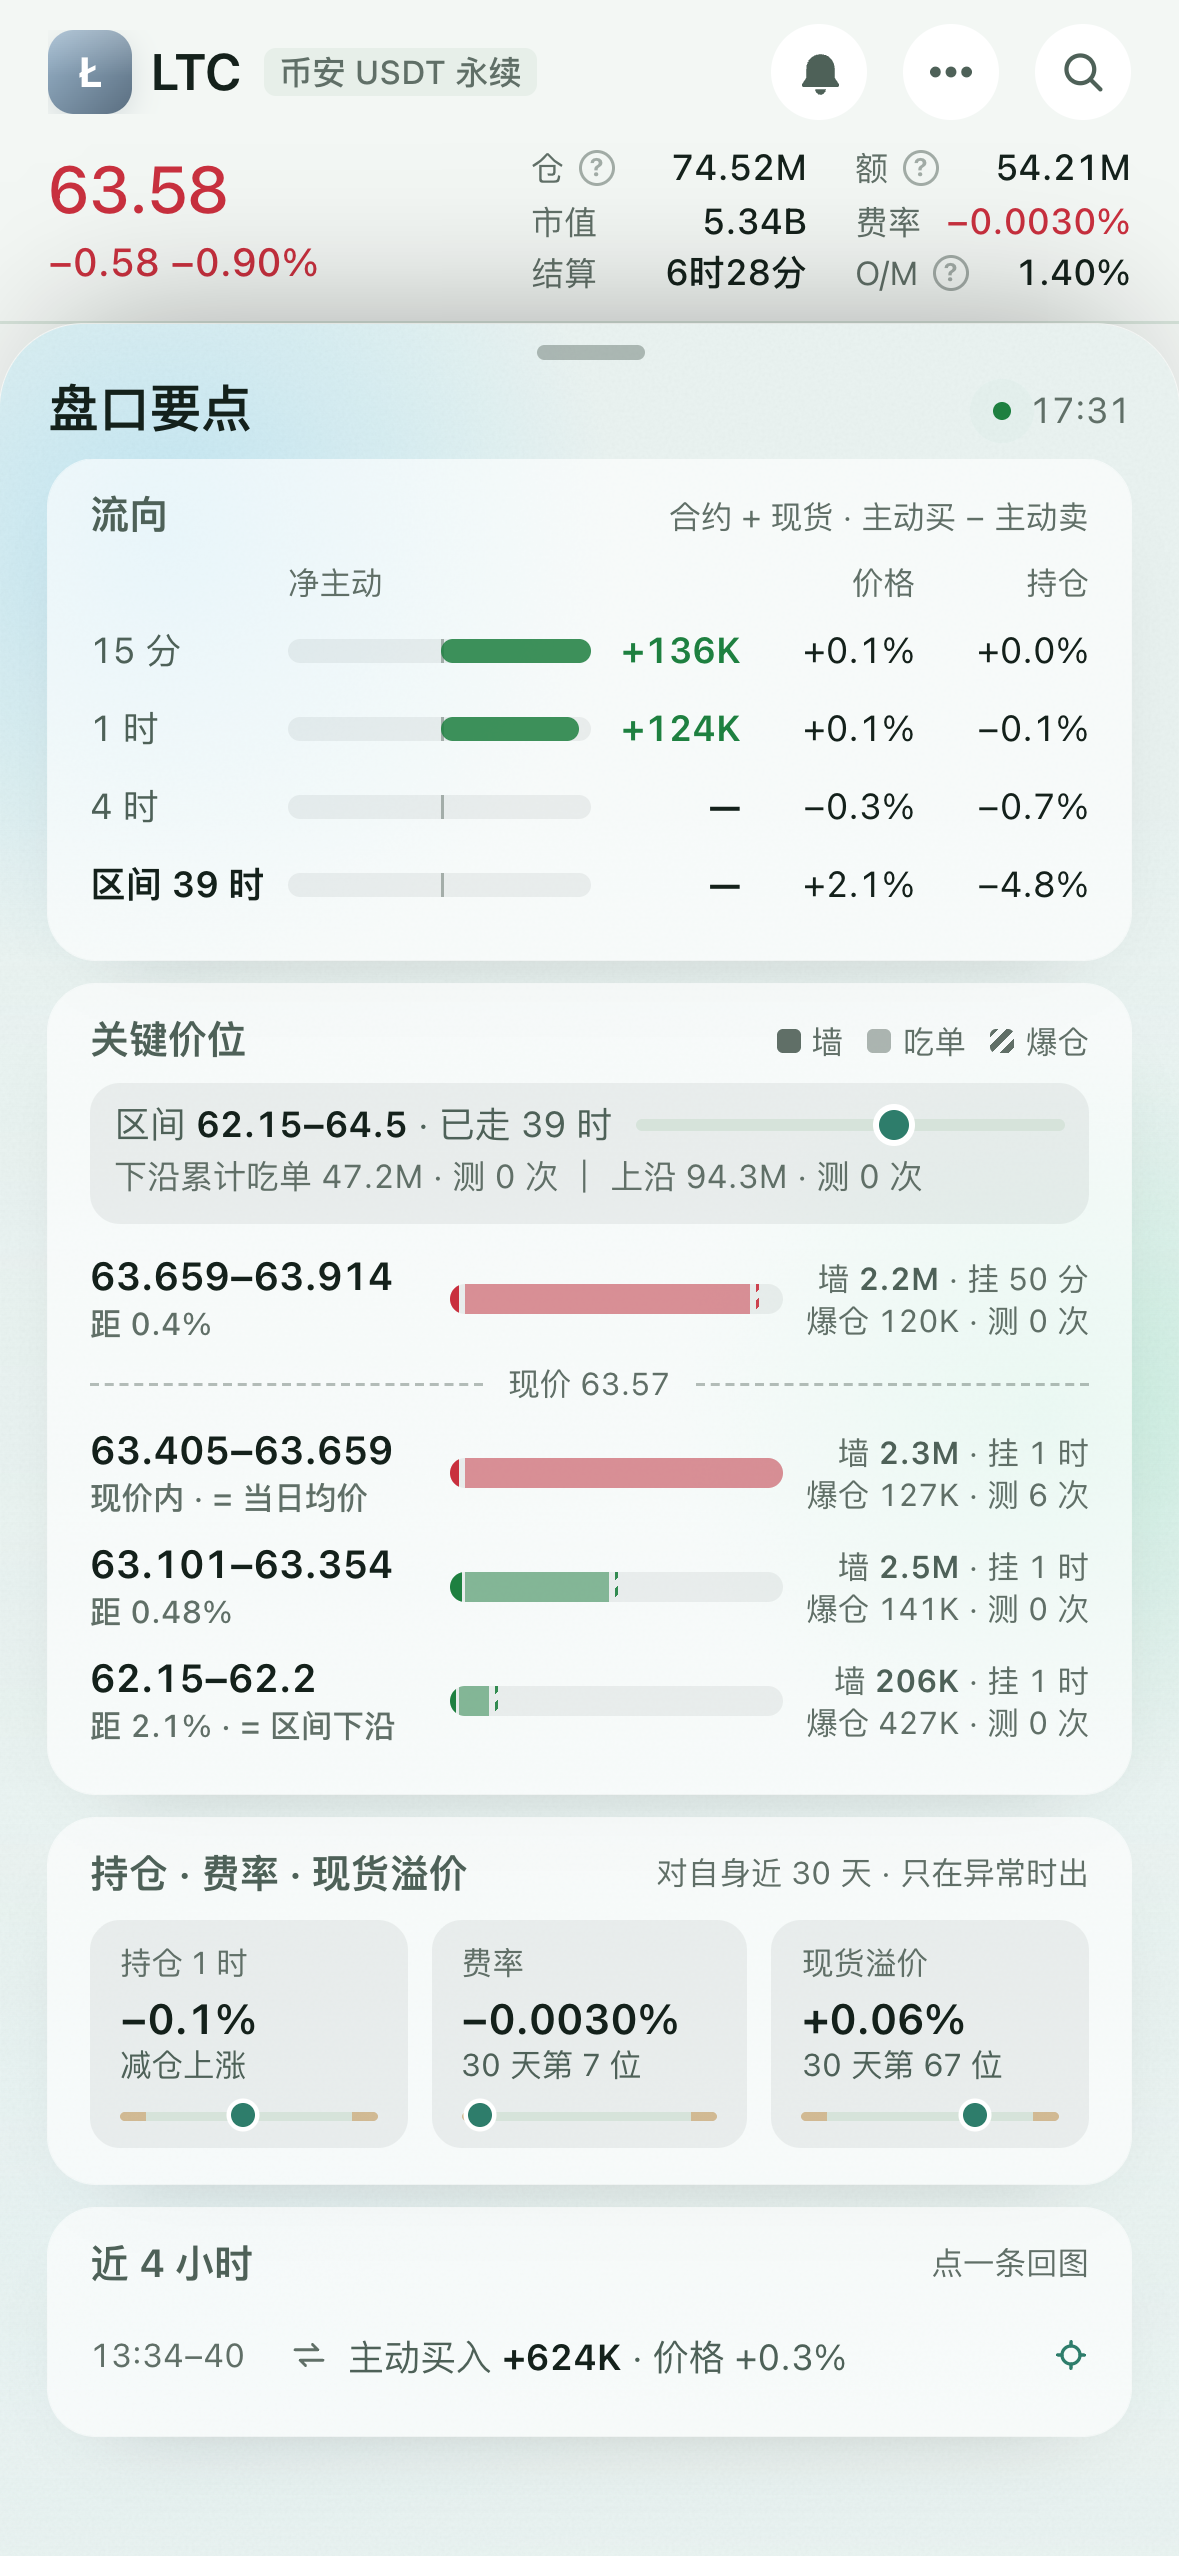
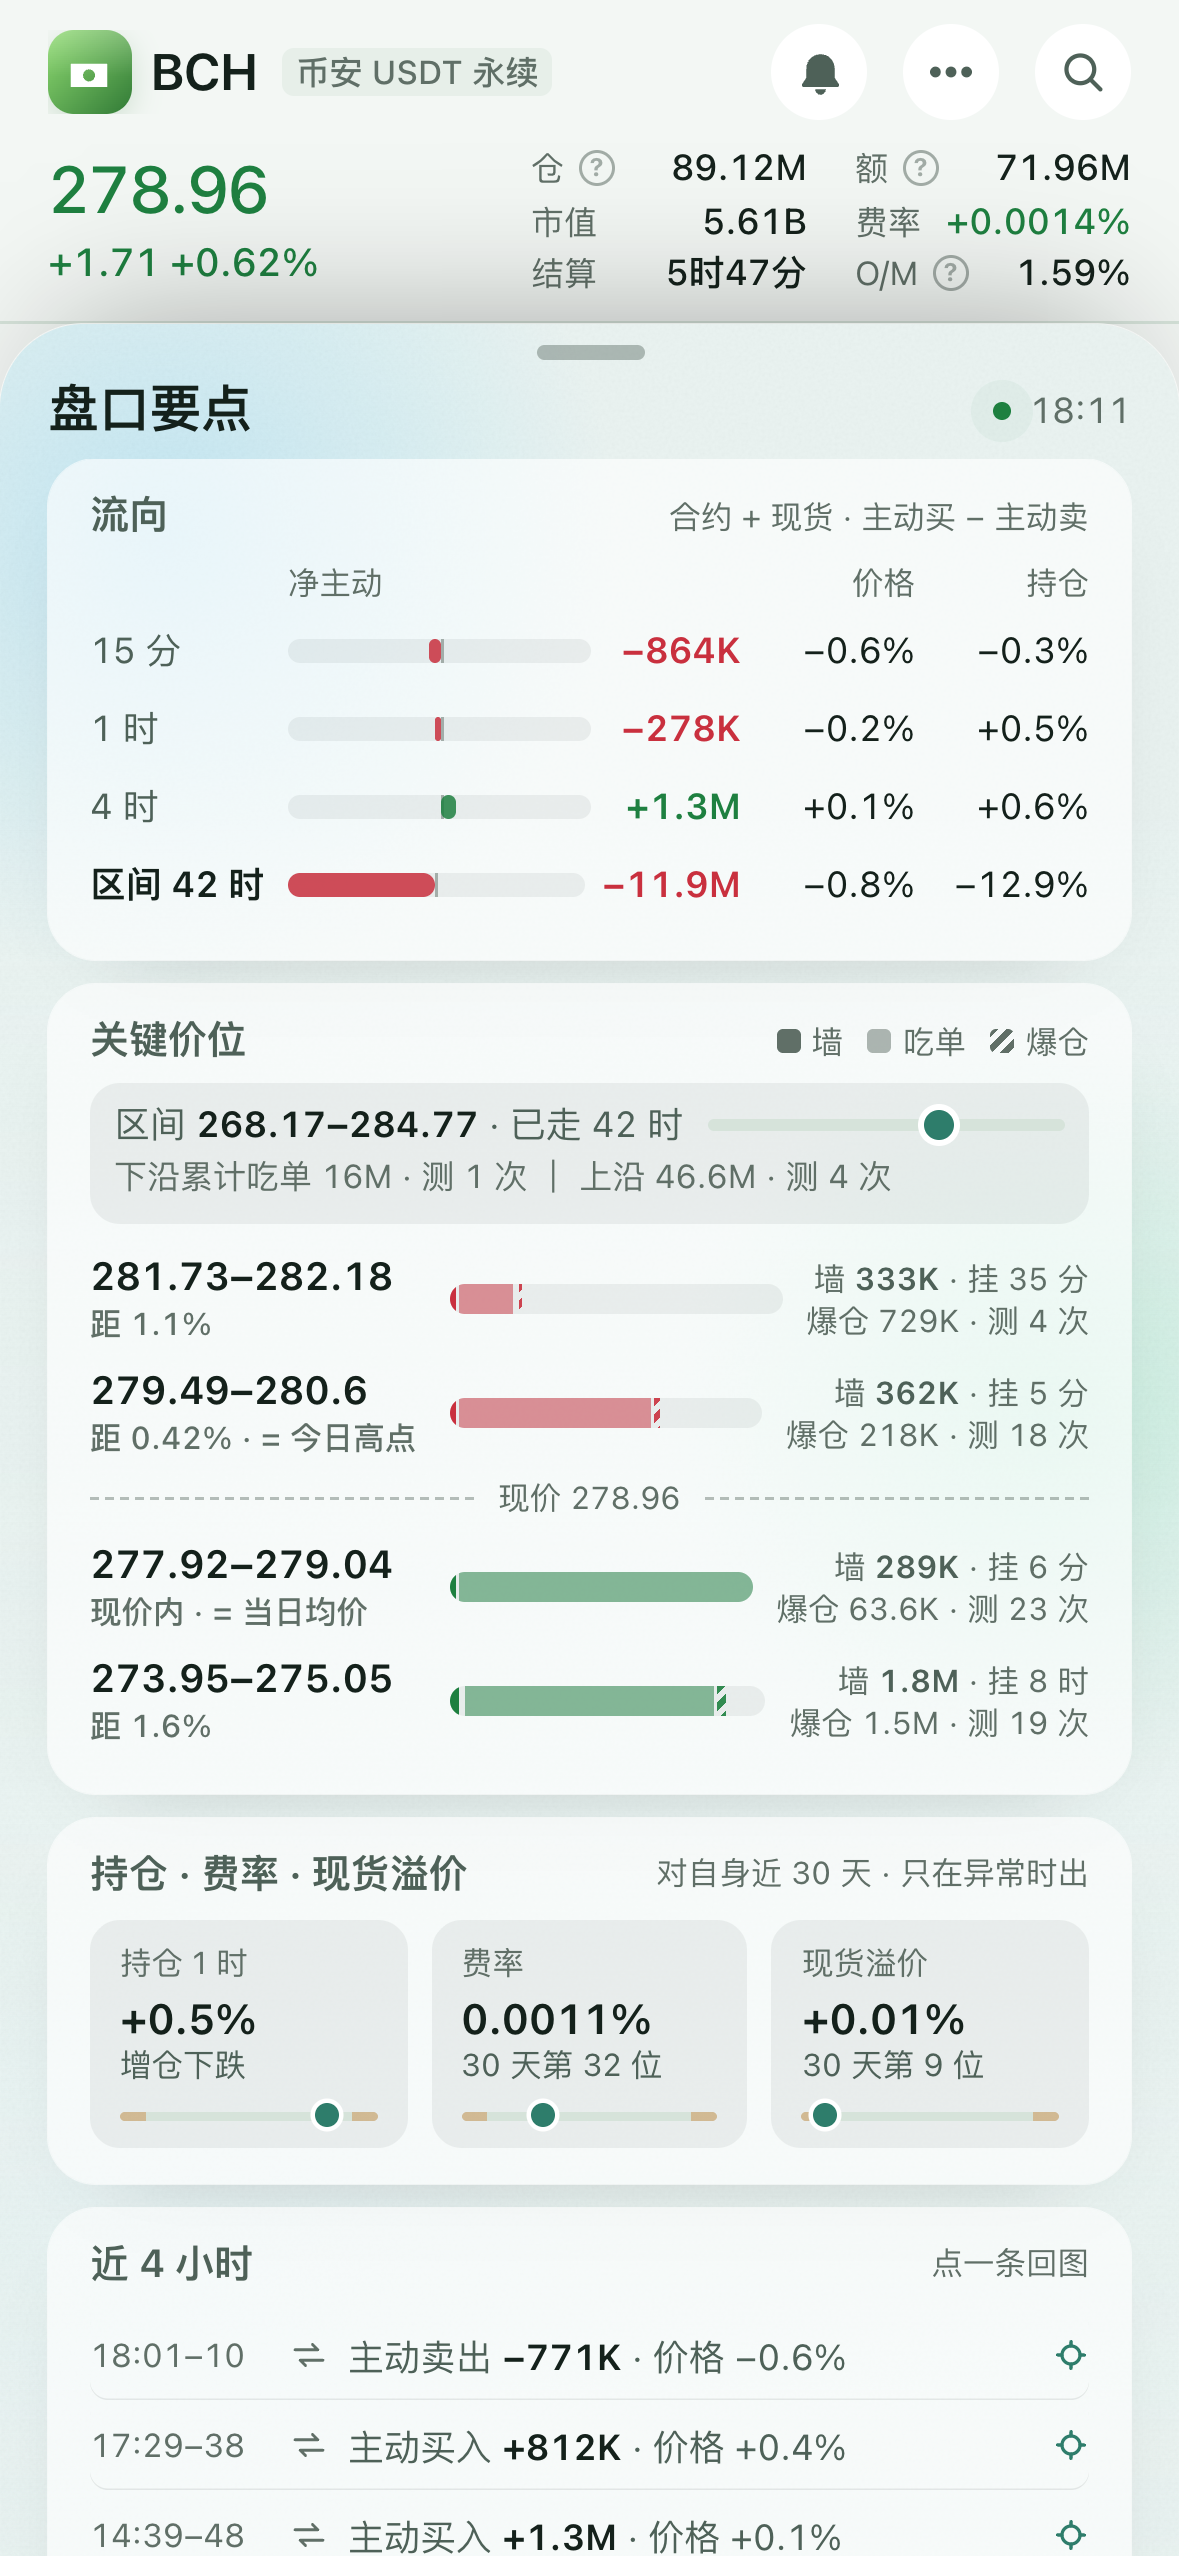
手机网页盘口要点：测 0 次、爆仓 0、挂 0 不写
- 价位行右边第二行只写有的：爆仓 0 不写、测 0 次不写，两样都没有就不换行
- 区间两沿测 0 次不写（用词表追加 rangeLowEdge / rangeHighEdge，只加不改名），分隔符不悬空
- 入口条价位句本来就不写挂 0、测 0；补测试覆盖
- 换上青苔浅半页截图

diff --git a/Web/src/m/pages/chart/highlightsSheet.ts b/Web/src/m/pages/chart/highlightsSheet.ts
@@ -14,7 +14,7 @@ import { HL, fill } from '../../../terms'
 import type { Highlights, HlEvent, Level } from '../../../highlights/api'
 import {
   usd, signedUsd, signedPct, distText, bandPx, levelPx, hhmm, heldText, wallStateWord, refWord, levelFill, levelTotal,
-  eventTime, eventSentence, eventIcon, flowLabel, positionCells, rangeHead, straddles, type EventIcon,
+  eventTime, eventSentence, eventIcon, flowLabel, positionCells, rangeHead, rangeEdgesText, levelMeta2, straddles, type EventIcon,
 } from '../../../highlights/format'
 import '../../styles/highlights.css'
 
@@ -79,11 +79,11 @@ function levelRowHTML(l: Level, mx: number, open: boolean, price: number | null)
   const meta1 = l.wallUsd > 0
     ? `${escA(HL.wall)} <b>${usd(l.wallUsd)}</b>${l.wallHeldMs > 0 ? ` · ${escA(fill(HL.heldFor, { d: heldText(l.wallHeldMs) }))}` : ''}`
     : `${escA(HL.fill)} <b>${usd(fillUsd)}</b>`
-  const meta2 = `${l.liqUsd > 0 ? `${escA(fill(HL.liqMeta, { v: usd(l.liqUsd) }))} · ` : ''}${escA(fill(HL.tests, { n: l.tests }))}`
+  const meta2 = escA(levelMeta2(l))
   const row = `<button type="button" class="row${open ? ' open' : ''} ${l.side}" data-lv="${escA(l.id)}" aria-expanded="${open}">`
     + `<span class="px">${bandPx(l.low, l.high)}<small>${escA(straddles(l, price) ? HL.atPrice : fill(HL.dist, { v: distText(l.distPct) }))}${escA(ref)}</small></span>`
     + `<span class="bar">${seg(l.wallUsd, 'w')}${seg(fillUsd, 'f')}${seg(l.liqUsd, 'q')}</span>`
-    + `<span class="meta">${meta1}<br>${meta2}</span></button>`
+    + `<span class="meta">${meta1}${meta2 ? `<br>${meta2}` : ''}</span></button>`
   if (!open) return row
   const ev: [string, string][] = []
   if (fillUsd > 0) ev.push([HL.fill, escA(fill(HL.fillBuySell, { a: '\u0001', b: usd(l.fillSellUsd) })).replace('\u0001', `<b>${usd(l.fillBuyUsd)}</b>`)])
@@ -119,7 +119,7 @@ export function levelsBlockHTML(d: Highlights, price: number | null, open: strin
     const pos = price != null && r.high > r.low ? Math.max(0, Math.min(100, ((price - r.low) / (r.high - r.low)) * 100)) : null
     const head = `${HL.range} <b>${h.band}</b> · ${escA(fill(HL.rangeAge, { h: h.hours }))}`
     rng = `<div class="rng"><div class="l1"><span>${head}</span><span class="rt">${pos != null ? `<i style="left:${pos.toFixed(1)}%"></i>` : ''}</span></div>`
-      + `<div class="l2">${escA(fill(HL.rangeEdges, { a: usd(r.lowFillUsd), n: r.lowTests, b: usd(r.highFillUsd), m: r.highTests }))}</div></div>`
+      + `<div class="l2">${escA(rangeEdgesText(r))}</div></div>`
   }
   const nowRow = `<div class="now"><i></i>${escA(fill(HL.now, { p: price != null ? levelPx(price) : '—' }))}<i></i></div>`
   return `<div class="hl-blk" data-blk="levels"><div class="bt"><h5>${HL.levels}</h5><span class="cap"><i></i>${HL.wall}<i class="f"></i>${HL.fill}<i class="q"></i>${HL.liq}</span></div>`

diff --git a/Web/tests/m-highlights.test.ts b/Web/tests/m-highlights.test.ts
@@ -4,7 +4,7 @@ import { describe, expect, it } from 'vitest'
 import { parseHighlights, parseBoard, parseMarketBoard, boardUrl, highlightsUrl, marketBoardUrl } from '../src/highlights/api'
 import {
   usd, signedUsd, signedPct, levelPx, bandPx, distText, hhmm, spanText, heldText, agoText, wallStateWord,
-  levelSentence, nearestLevel, straddles, eventSentence, eventTime, stripSentence, boardFact, positionCells, fundingText, flowLabel,
+  levelSentence, nearestLevel, straddles, levelMeta2, rangeEdgesText, eventSentence, eventTime, stripSentence, boardFact, positionCells, fundingText, flowLabel,
 } from '../src/highlights/format'
 import { bodyHTML, flowBlockHTML, levelsBlockHTML, positionBlockHTML, eventsBlockHTML } from '../src/m/pages/chart/highlightsSheet'
 import { setHighlightIntent, takeHighlightIntent } from '../src/m/pages/chart/highlightIntent'
@@ -142,6 +142,25 @@ describe('盘口要点 · 拼字', () => {
     const row = h.slice(iAt, h.indexOf('</button>', iAt))
     expect(row).toContain('<small>现价内')
     expect(row).not.toContain('距 ')
+  })
+  it('测 0 次、爆仓 0、挂 0 不写，分隔符不悬空', () => {
+    const d = parseHighlights(SAMPLE, 'BTC')!
+    const near = nearestLevel(d.levels)!
+    const bare = { ...near, tests: 0, liqUsd: 0, wallHeldMs: 0 }
+    expect(levelMeta2(bare)).toBe('')
+    expect(levelMeta2({ ...bare, liqUsd: 120e3 })).toBe('爆仓 120K')
+    expect(levelMeta2({ ...bare, tests: 6 })).toBe('测 6 次')
+    expect(levelMeta2({ ...bare, liqUsd: 127e3, tests: 6 })).toBe('爆仓 127K · 测 6 次')
+    expect(levelSentence(bare)).toBe('下方 <b>82,609</b> 买区 <b>35M</b>')
+    expect(rangeEdgesText({ ...d.range!, lowTests: 0, highTests: 0, lowFillUsd: 47.2e6, highFillUsd: 94.3e6 })).toBe('下沿累计吃单 47.2M ｜ 上沿 94.3M')
+    expect(rangeEdgesText({ ...d.range!, lowTests: 2, highTests: 0, lowFillUsd: 47.2e6, highFillUsd: 94.3e6 })).toBe('下沿累计吃单 47.2M · 测 2 次 ｜ 上沿 94.3M')
+    const h = levelsBlockHTML({ ...d, levels: d.levels.map(l => ({ ...l, tests: 0, liqUsd: 0, wallHeldMs: 0 })), range: { ...d.range!, lowTests: 0, highTests: 0 } }, 82700, null, GEN)
+    expect(h).not.toContain('测 0 次')
+    const metas = h.split('class="meta">').slice(1).map(x => x.split('</span>')[0])
+    expect(metas.length).toBe(3)
+    expect(metas.some(m => m.includes('爆仓'))).toBe(false)
+    expect(h).not.toContain('挂 ')
+    expect(h).not.toMatch(/· <br>|<br><\/span>|· <\/span>|<span class="meta">[^<]*<br>\s*<\/span>/)
   })
   it('事件句与时刻列', () => {
     const d = parseHighlights(SAMPLE, 'BTC')!

diff --git a/Web/src/highlights/format.ts b/Web/src/highlights/format.ts
@@ -191,6 +191,17 @@ export function positionCells(p: Position): TriCell[] {
   ]
 }
 
+/** 区间两沿：下沿累计吃单 47.2M · 测 2 次 ｜ 上沿 94.3M（测 0 次不写） */
+export function rangeEdgesText(r: RangeBox): string {
+  const side = (tpl: string, v: number, n: number): string => [fill(tpl, { v: usd(v) }), n > 0 ? fill(HL.tests, { n }) : ''].filter(Boolean).join(' · ')
+  return `${side(HL.rangeLowEdge, r.lowFillUsd, r.lowTests)} ｜ ${side(HL.rangeHighEdge, r.highFillUsd, r.highTests)}`
+}
+
+/** 价位行右边第二行：爆仓 120K · 测 6 次；爆仓 0 不写、测 0 次不写，都没有就是空串 */
+export function levelMeta2(l: Level): string {
+  return [l.liqUsd > 0 ? fill(HL.liqMeta, { v: usd(l.liqUsd) }) : '', l.tests > 0 ? fill(HL.tests, { n: l.tests }) : ''].filter(Boolean).join(' · ')
+}
+
 export function rangeHead(r: RangeBox, now: number): { band: string; hours: number } {
   return { band: bandPx(r.low, r.high), hours: Math.max(1, Math.round((now - r.sinceMs) / H)) }
 }
